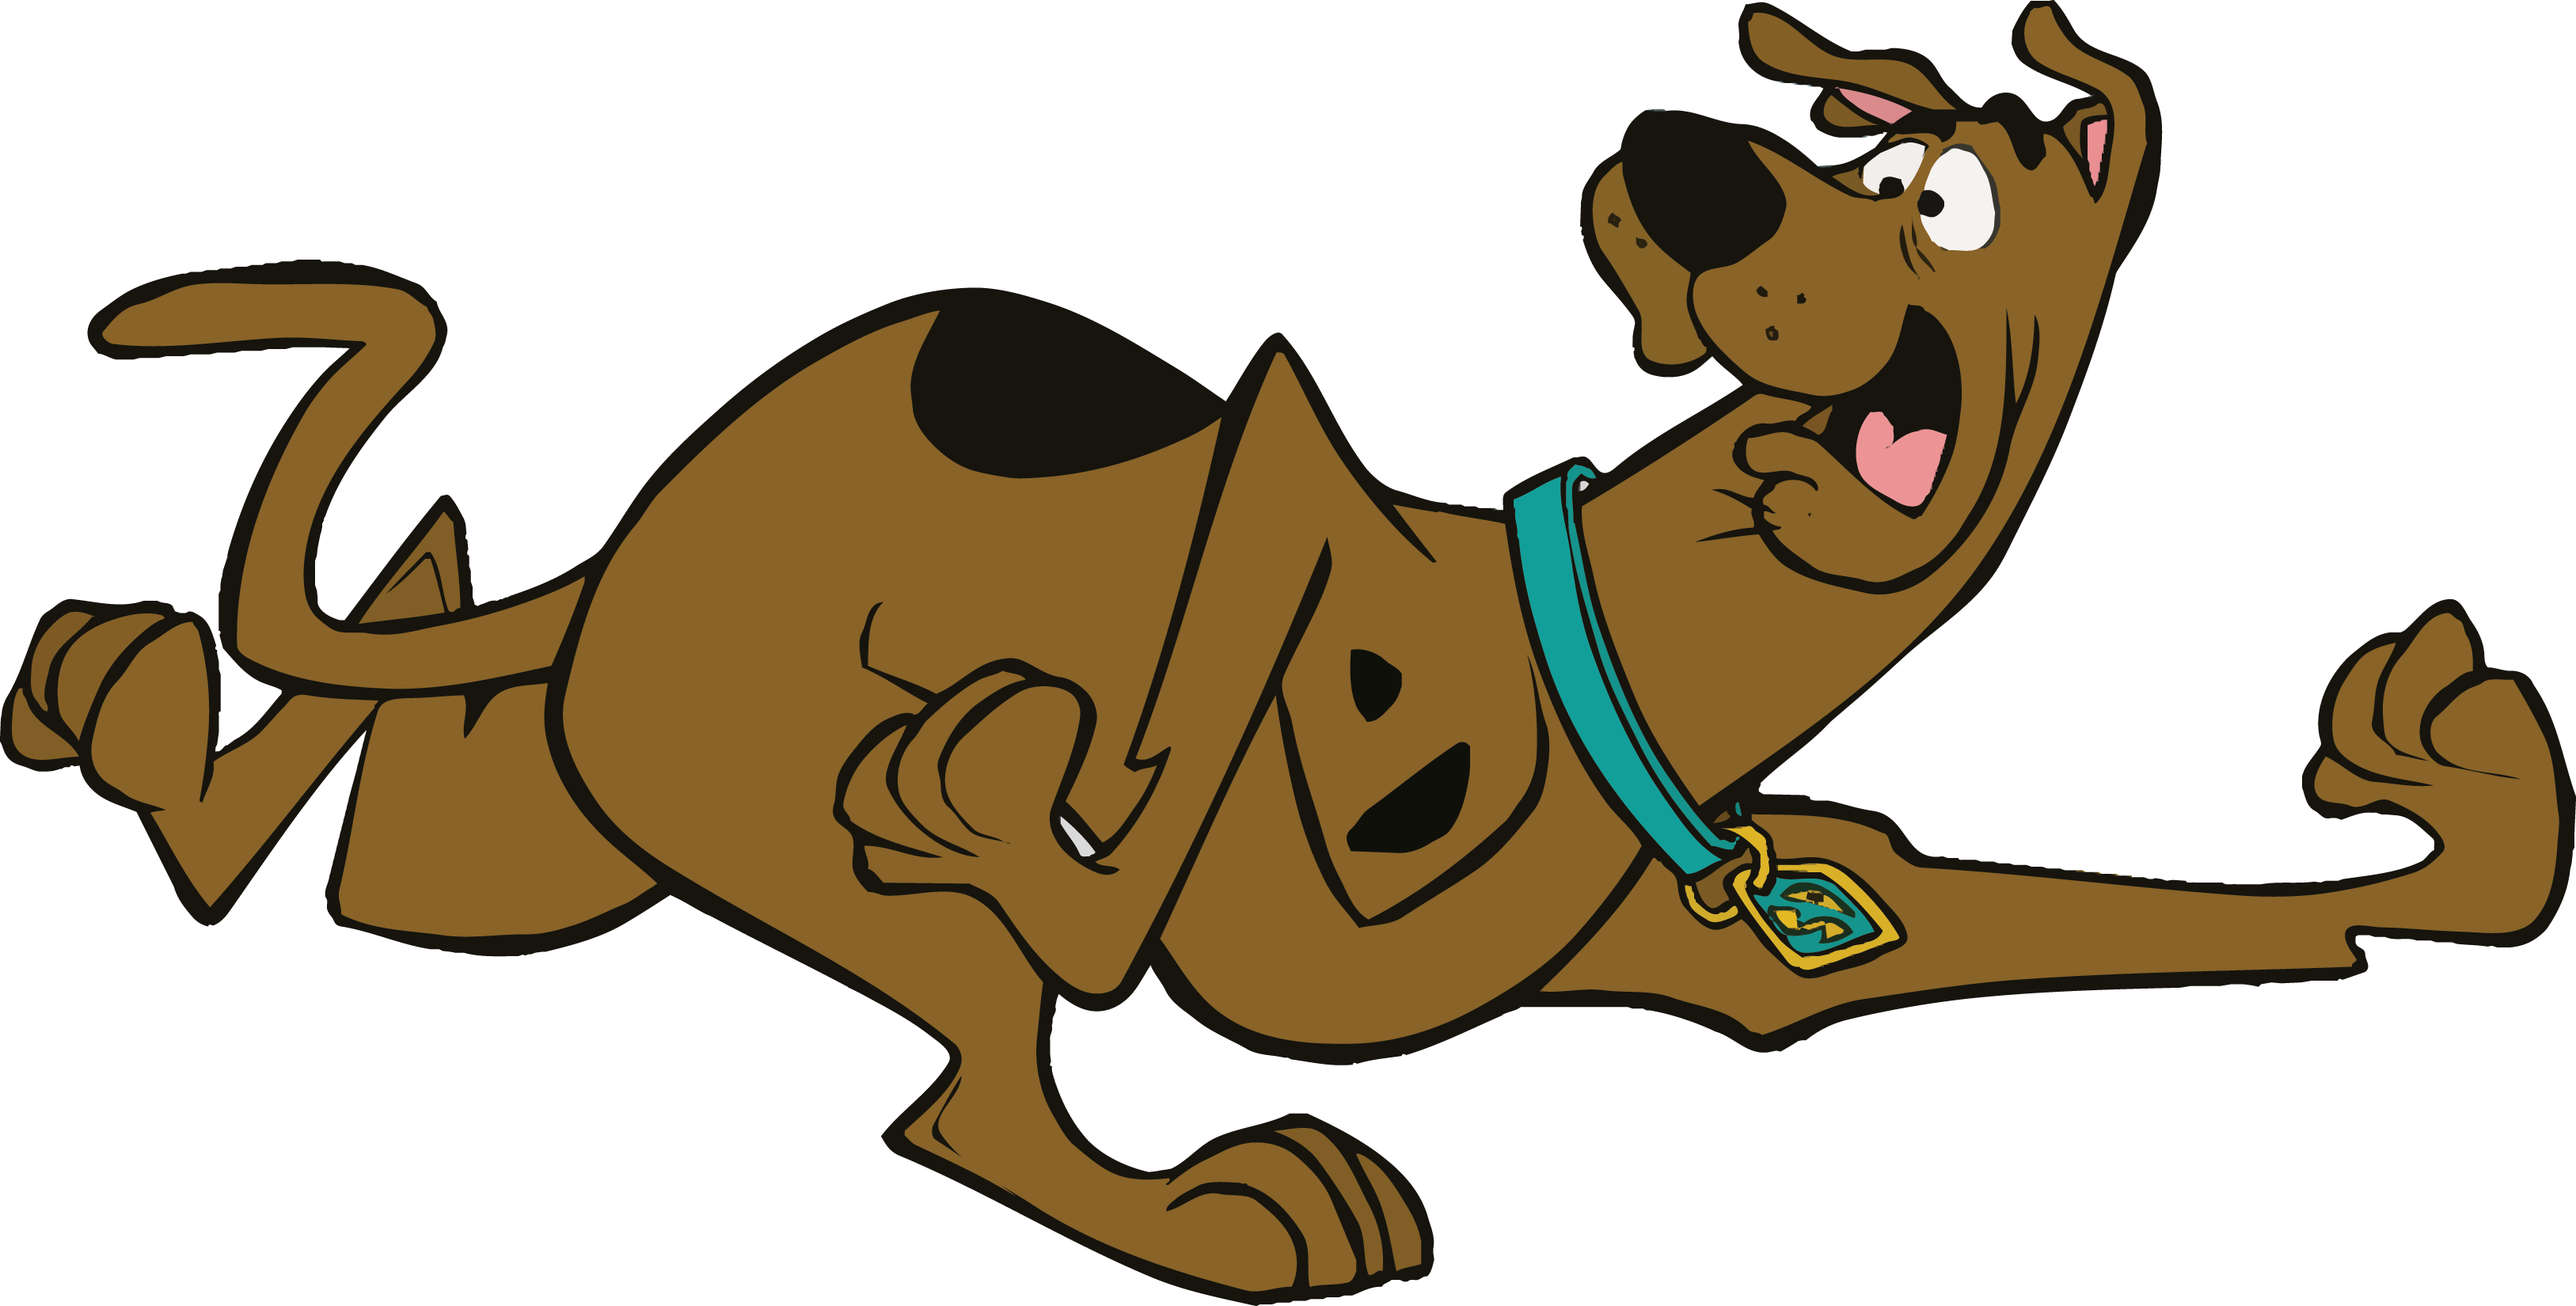
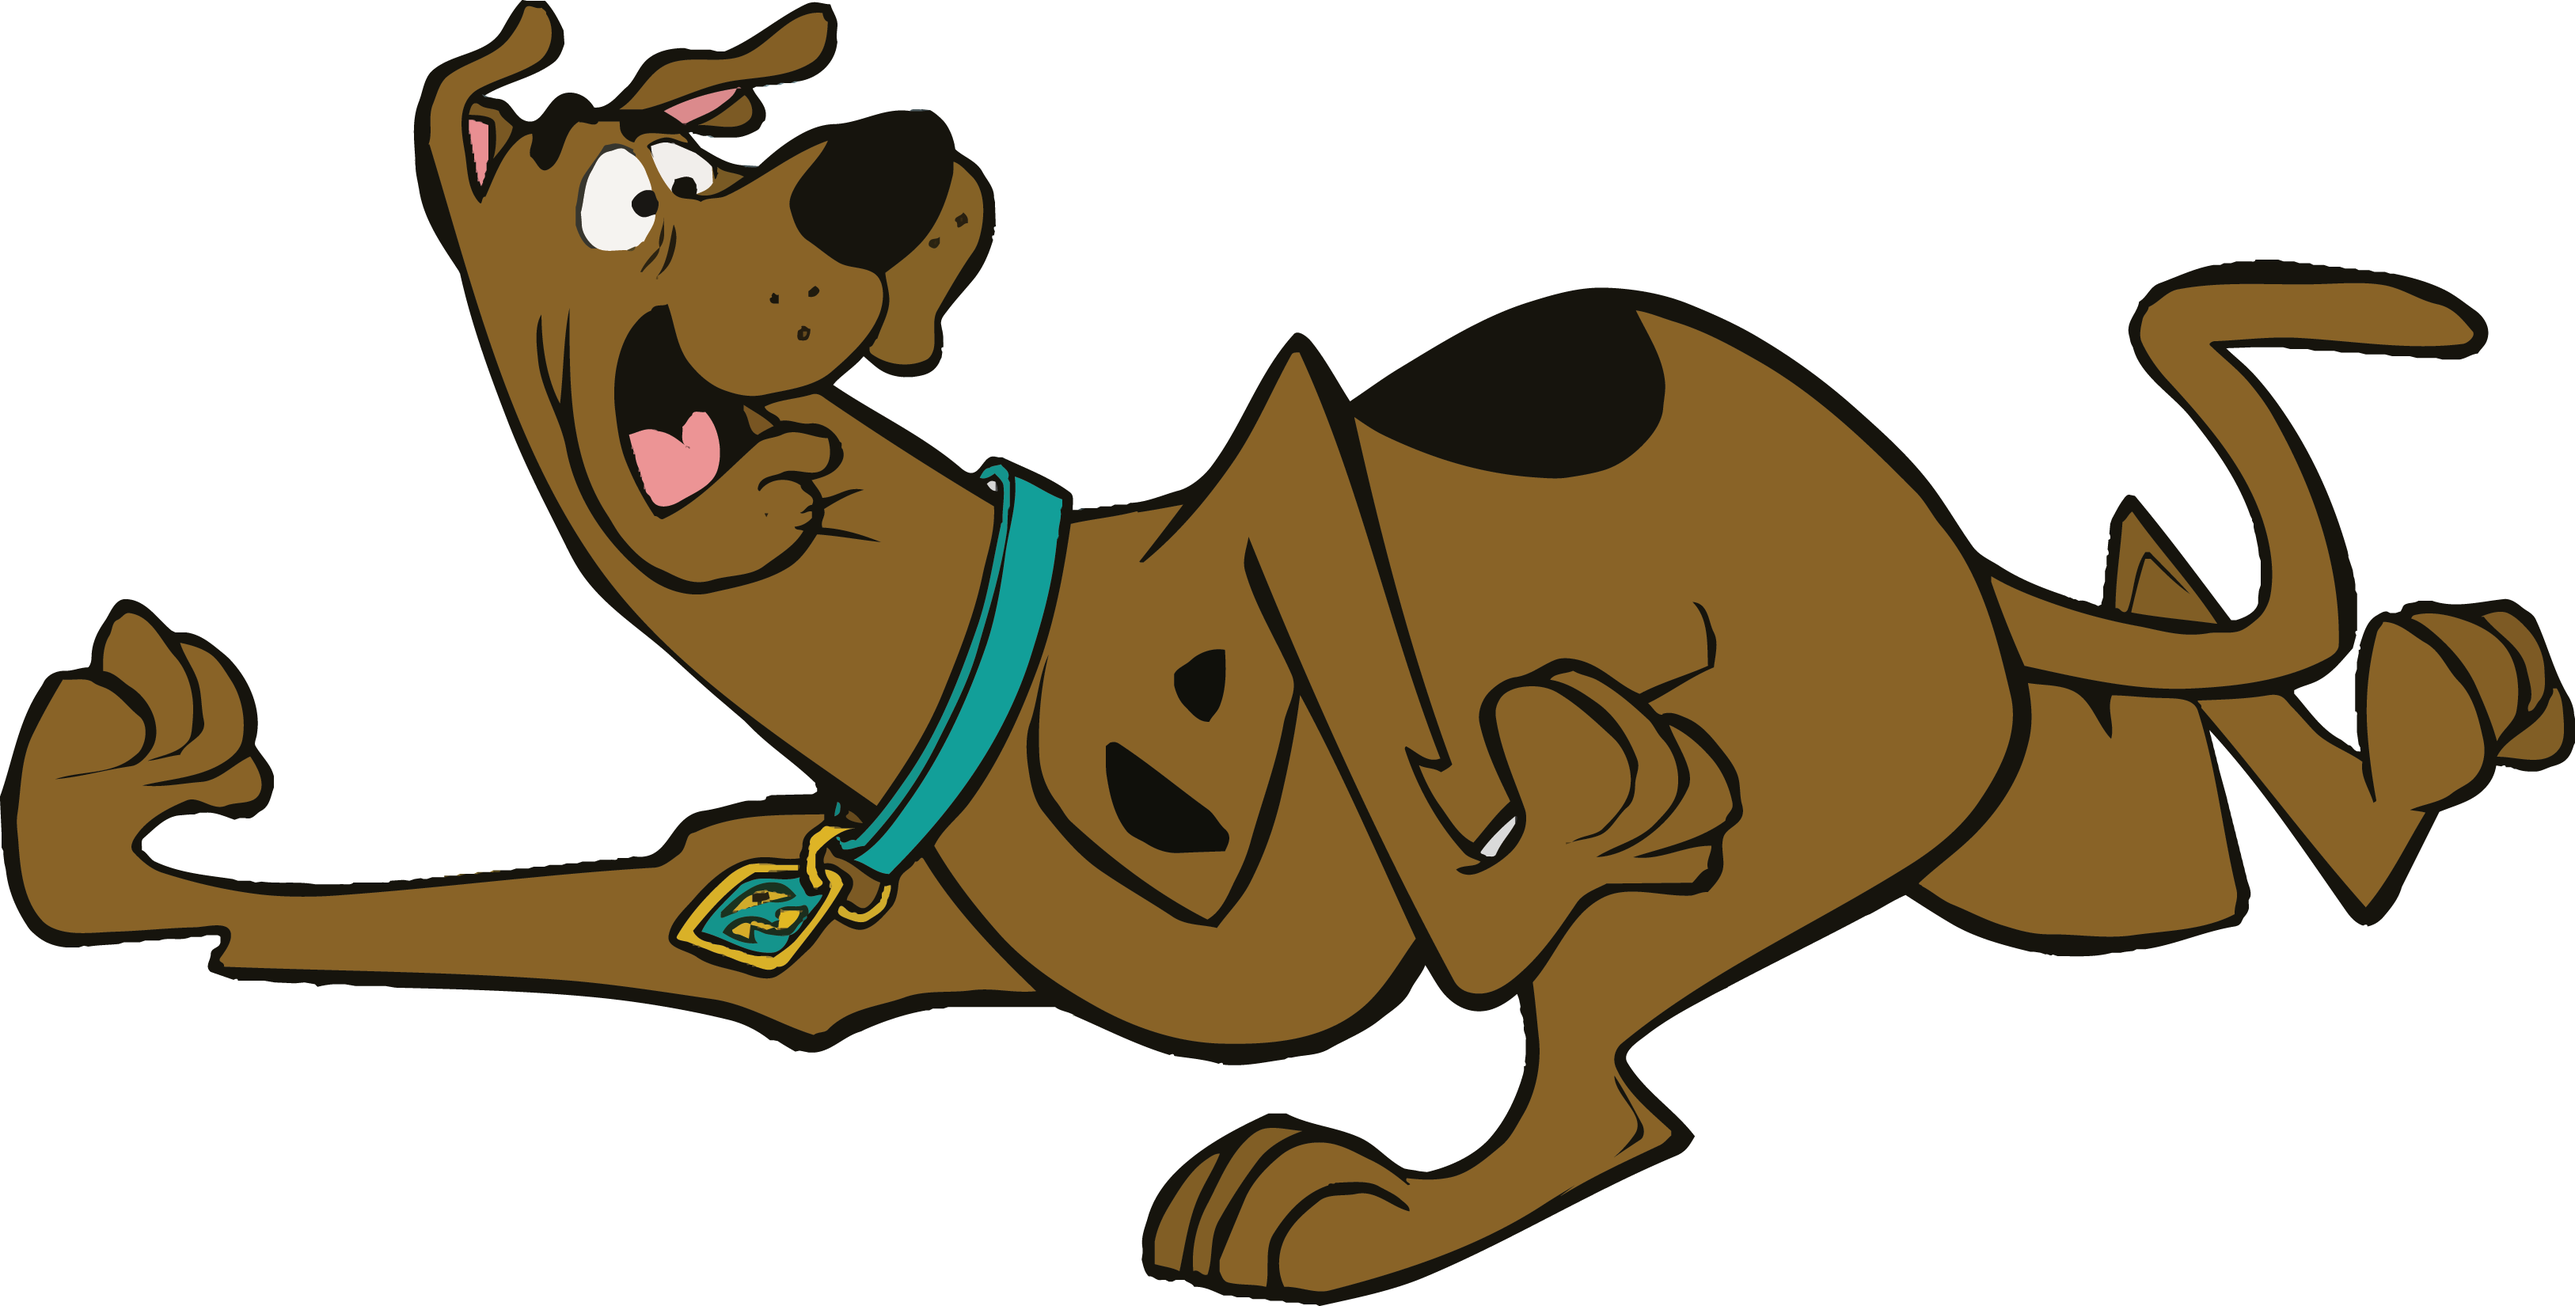
sprite fixing

diff --git a/public/js/Scene2.js b/public/js/Scene2.js
@@ -13,10 +13,10 @@ class Scene2 extends Phaser.Scene {
     }
 
     preload() {
-        this.load.image('star', '../assets/star.png')
-        this.load.image('scooby', '../assets/scooby.jpg')
-        this.load.image('shaggy', '../assets/shaggy.jpg')
-        this.load.image('bomb', '../assets/bomb.png')
+        //this.load.image('star', '../assets/snack.png')
+        this.load.image('scooby', '../assets/scoobs.png')
+        this.load.image('shaggy', '../assets/shags.png')
+        this.load.image('bomb', '../assets/snack.png')
         this.load.image("flares", '../assets/yellow.png')
     }
 
